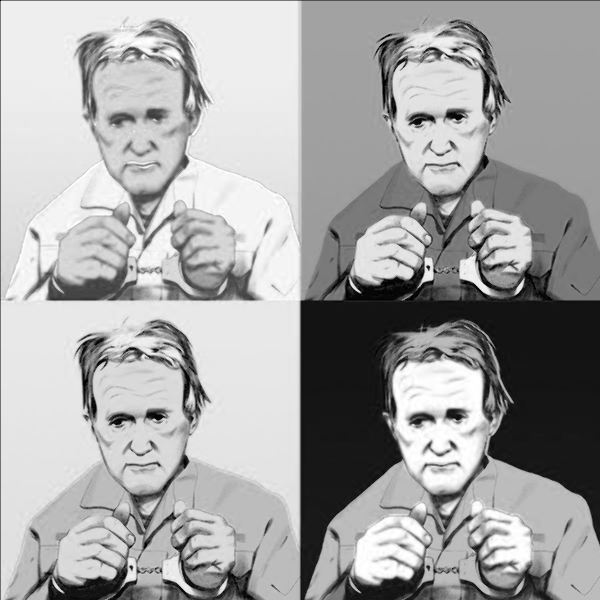
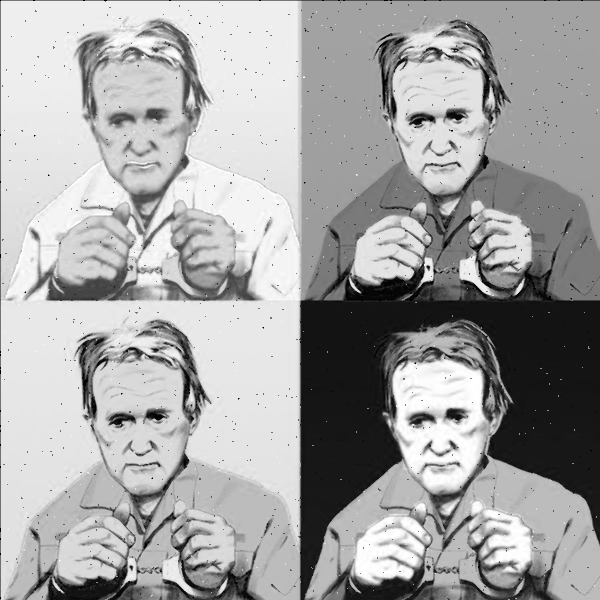
add new results with noise

diff --git a/lab1/README.md b/lab1/README.md
@@ -9,6 +9,9 @@
 - Original image:
 ![](src/img/image.png)
 
+- Noised image:
+![](src/img/noised.png)
+
 - Filter size 1:
 ![](src/results/result1.png)
 
@@ -26,6 +29,3 @@
 
 - Filter size 50:
 ![](src/results/result50.png)
-
-- Filter size 100:
-![](src/results/result100.png)
